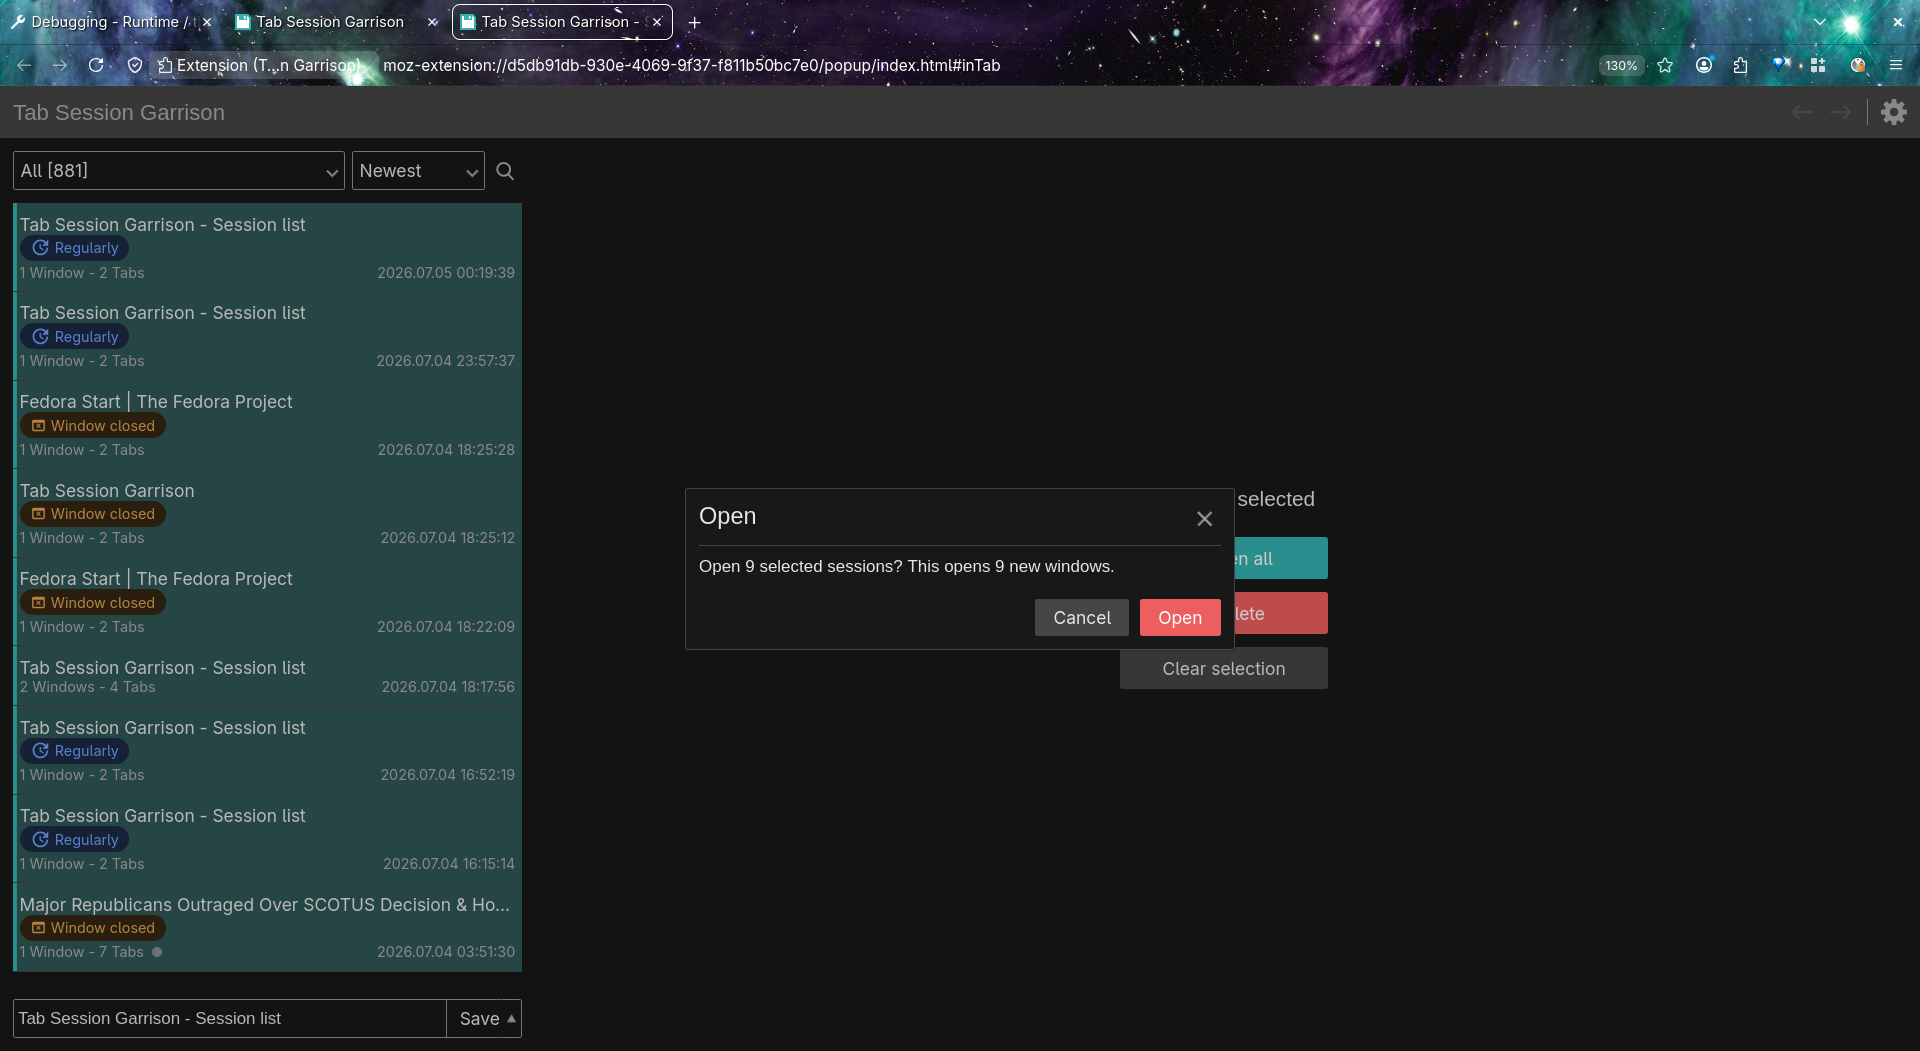
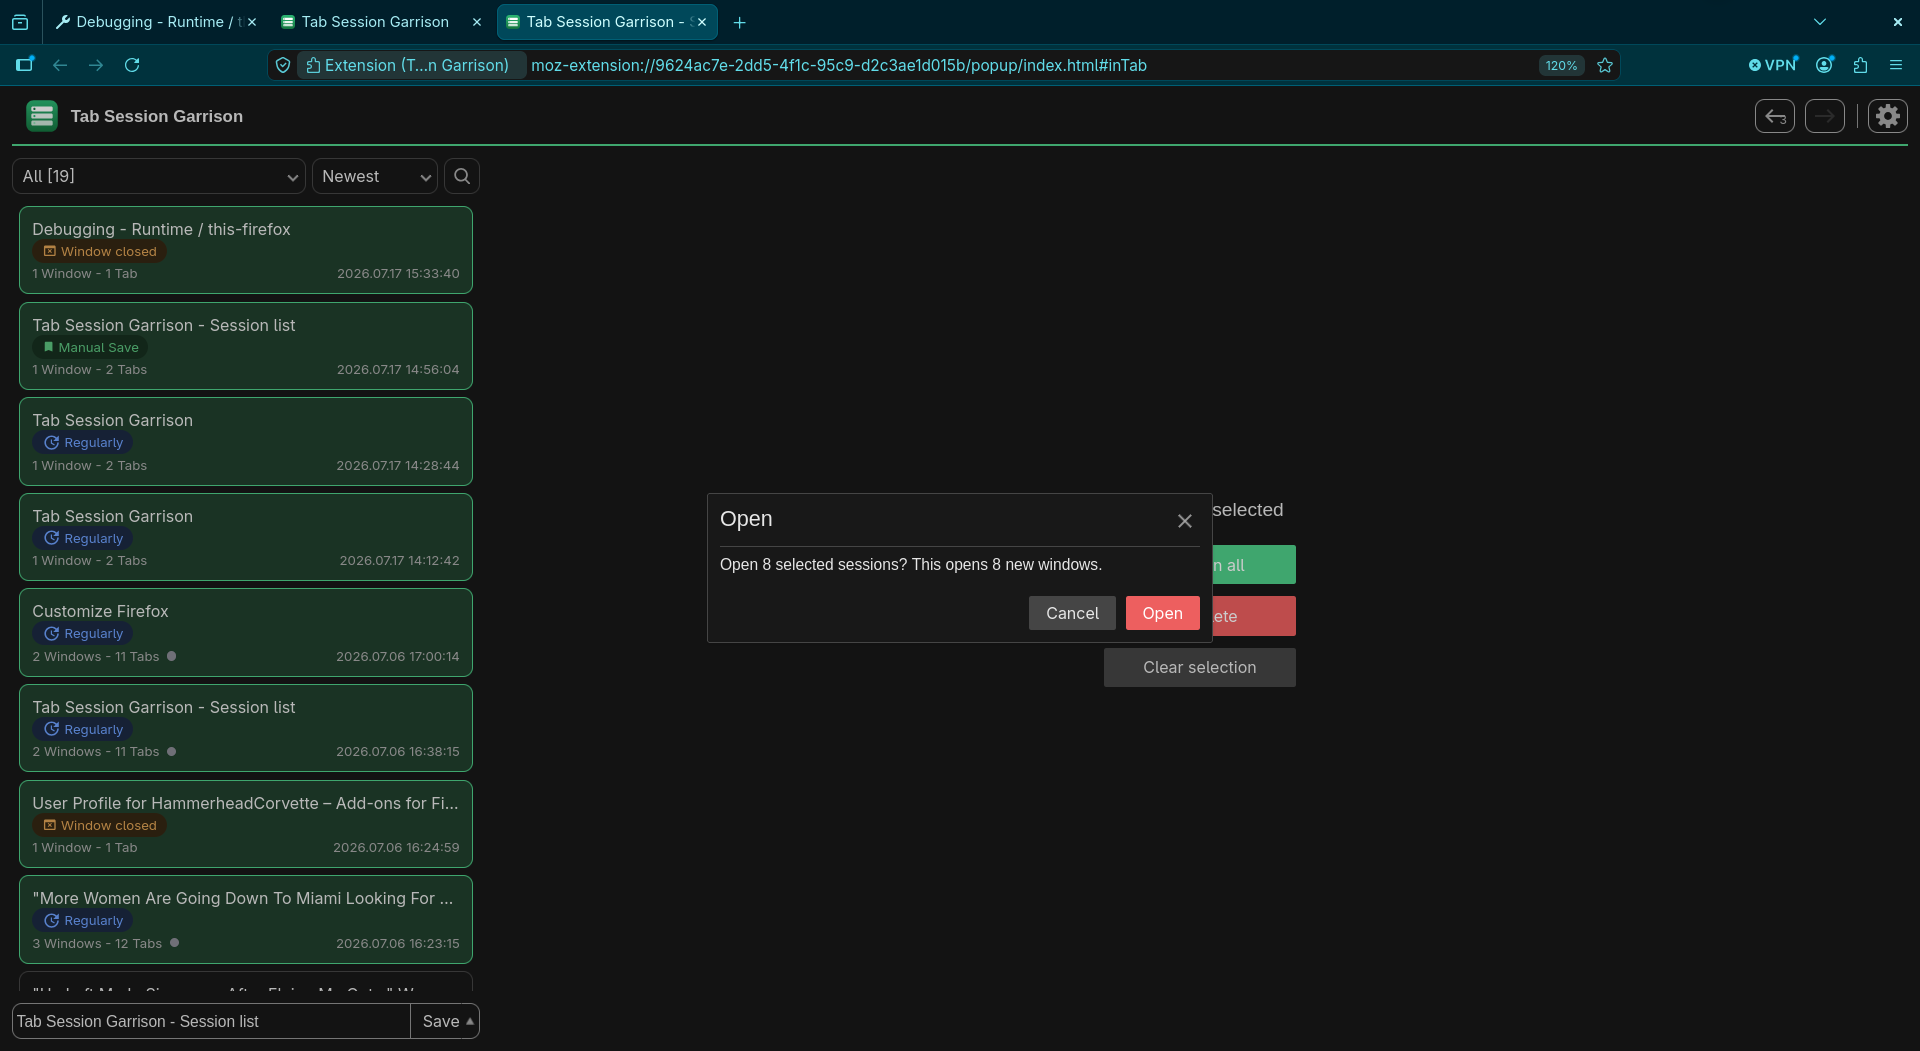
release 0.2.0: green UI redesign, dark-by-default, cloud section removed
- Popup: bordered 'card' treatment across all regions (session list, detail
  pane, top controls, save bar) + a branded header (logo, accent line, boxed
  buttons); fixed the card content-clipping
- Options: scroll-focus card treatment for Settings, pill buttons, boxed
  Sessions/Shortcuts/Information, Import/Export heading
- Unified the whole app accent from teal to the logo green
- Dark theme is now the default
- Removed the (non-functional, credential-less) cloud-sync settings section;
  background OAuth scaffolding kept dormant
- Bump to 0.2.0, updates.json entry, README refreshed

diff --git a/src/popup/styles/Header.scss b/src/popup/styles/Header.scss
@@ -1,6 +1,8 @@
 #header {
+  position: relative;
   padding: 10px;
-  background-color: var(--line);
+  // Flat, clean header on the main background.
+  background-color: var(--main-bg);
   display: flex;
   flex-direction: row;
   flex-shrink: 0;
@@ -9,12 +11,34 @@
   -moz-user-select: none;
   -webkit-user-select: none;
 
+  // Thin green accent line, inset ~10px from each edge.
+  &::after {
+    content: "";
+    position: absolute;
+    left: 10px;
+    right: 10px;
+    bottom: 0;
+    height: 2px;
+    background-color: var(--tsg-accent);
+  }
+
   .title {
-    font-size: 17px;
-    font-weight: 400;
-    color: var(--sub-text);
+    display: flex;
+    align-items: center;
+    gap: 9px;
+    margin-left: 10px;
+    // Brand-forward: bigger logo, smaller neutral text.
+    font-size: 14px;
+    font-weight: 600;
+    color: var(--main-text);
     cursor: default;
     flex-shrink: 0;
+
+    .titleLogo {
+      width: 30px;
+      height: 30px;
+      flex-shrink: 0;
+    }
   }
 
   .rightButtons {
@@ -28,11 +52,19 @@
       display: flex;
       align-items: center;
       background-color: transparent;
-      border: none;
+      // Boxed to match the popup's card/box language. Uses --sub-text so the
+      // outline stays visible on the flat header (esp. the faded undo/redo).
+      border: 1px solid var(--sub-text);
+      border-radius: 8px;
       cursor: pointer;
       outline: none;
-      padding: 0;
-      margin-left: 10px;
+      padding: 3px 6px;
+      margin-left: 8px;
+      transition: border-color 100ms;
+      &:hover,
+      &:focus {
+        border-color: var(--highlight);
+      }
     }
 
     .separation {

diff --git a/src/settings/defaultSettings.js b/src/settings/defaultSettings.js
@@ -1,6 +1,5 @@
 import browser from "webextension-polyfill";
 import browserInfo from "browser-info";
-import SignInButton from "../options/components/SignInButton";
 import CompressAllSessionsForm from "../options/components/CompressAllSessionsForm";
 import { isEnabledTabGroups, handleSaveTabGroupsChange } from "../common/tabGroups";
 
@@ -304,34 +303,6 @@ export default [
     ]
   },
   {
-    category: "cloudSyncLabel",
-    elements: [
-      {
-        id: "enabledCloudSync",
-        title: "enabledCloudSyncLabel",
-        captions: ["enabledCloudSyncCaptionLabel"],
-        type: "extra",
-        extraForm: SignInButton,
-        childElements: [
-          {
-            id: "enabledAutoSync",
-            title: "enabledAutoSyncLabel",
-            captions: ["enabledAutoSyncCaptionLabel"],
-            type: "checkbox",
-            default: false
-          },
-          {
-            id: "includesAutoSaveToSync",
-            title: "includesAutoSaveToSyncLabel",
-            captions: ["includesAutoSaveToSyncCaptionLabel"],
-            type: "checkbox",
-            default: true
-          }
-        ]
-      }
-    ]
-  },
-  {
     category: "popupLabel",
     elements: [
       {
@@ -404,7 +375,7 @@ export default [
         title: "themeLabel",
         captions: ["themeCaptionLabel"],
         type: "select",
-        default: "light",
+        default: "dark",
         options: [
           {
             name: "lightLabel",

diff --git a/src/popup/styles/OptionsArea.scss b/src/popup/styles/OptionsArea.scss
@@ -19,9 +19,10 @@
         background-color: var(--main-bg);
         color: var(--main-text);
         text-overflow: ellipsis;
-        border: var(--button) solid 1px;
-        border-radius: 2px;
-        padding: 3px 20px 3px 5px;
+        // Region 3: match the list-card box language (thin border, 8px radius).
+        border: var(--line) solid 1px;
+        border-radius: 8px;
+        padding: 3px 20px 3px 8px;
         width: 100%;
         height: 30px;
         outline: none;
@@ -29,7 +30,7 @@
 
         &:hover,
         &:focus {
-          border-color: var(--highlight);
+          border-color: var(--tsg-accent);
         }
       }
 
@@ -48,8 +49,8 @@
       }
       &:hover::before,
       &:focus::before {
-        border-bottom: 2px solid var(--highlight);
-        border-right: 2px solid var(--highlight);
+        border-bottom: 2px solid var(--tsg-accent);
+        border-right: 2px solid var(--tsg-accent);
       }
     }
 
@@ -64,16 +65,27 @@
       padding: 0;
     }
     .searchButton {
-      width: 25px;
-      margin-left: 3px;
+      // Region 3: a boxed button matching the select boxes.
+      width: 30px;
+      height: 30px;
+      flex-shrink: 0;
+      margin-left: 5px;
       z-index: 1;
+      border: var(--line) solid 1px;
+      border-radius: 8px;
+      transition: border-color 100ms;
       svg {
         height: 14px;
         fill: var(--sub-text);
+        transition: fill 100ms;
+      }
+      &:hover,
+      &:focus {
+        border-color: var(--tsg-accent);
       }
       &:hover svg,
       &:focus svg {
-        fill: var(--highlight);
+        fill: var(--tsg-accent);
       }
     }
   }

diff --git a/src/popup/styles/SessionItem.scss b/src/popup/styles/SessionItem.scss
@@ -7,12 +7,17 @@
   // the ref-based scroll-to-selected all still work). `auto` remembers each
   // row's real height once rendered; the fallback covers not-yet-seen rows.
   content-visibility: auto;
-  contain-intrinsic-size: auto 52px;
+  contain-intrinsic-size: auto 76px;
+
+  // Card treatment: each session is a thin bordered box with a small gap.
+  // No `overflow: hidden` — it clipped the tag chips / second info line.
+  border: 1px solid var(--line);
+  border-radius: 8px;
+  margin: 0 6px 6px;
 
   .selectButton {
     border: none;
-    border-bottom: 1px solid var(--line);
-    padding: 8px 5px;
+    padding: 10px 10px;
     width: 100%;
     text-align: left;
     background-color: rgba(0, 0, 0, 0);
@@ -169,13 +174,15 @@
 
   &.isSelected,
   &.isMultiSelected {
+    border-color: var(--tsg-accent);
     background-color: var(--highlight-bg);
     .selectButton {
-      box-shadow: inset 3px 0 0 var(--highlight);
+      box-shadow: none;
     }
   }
 
   &:not(.isSelected):not(.isMultiSelected):hover {
+    border-color: var(--button);
     background-color: var(--line);
     .tag:not(.tagRegular):not(.tagWinClose):not(.tagBrowserExit):not(.tagManual) {
       background-color: var(--line2);

diff --git a/src/options/styles/OptionsPage.scss b/src/options/styles/OptionsPage.scss
@@ -1,10 +1,3 @@
-// Gentle scroll detents for the Settings scroll-spy (targets are the sections;
-// other pages have no snap targets, so their scrolling is unaffected).
-html {
-  scroll-snap-type: y proximity;
-  scroll-padding-top: 150px;
-}
-
 body {
   background-color: var(--main-bg);
 
@@ -12,7 +5,7 @@ body {
   --sub-text: #737373;
   --line: #ededf0;
   --button: #d7d7db;
-  --highlight: #36b2b2;
+  --highlight: #1f9d5f;
   --main-bg: #ffffff;
   --sub-bg: #ffffff;
   --new: #ff4f4f;
@@ -23,7 +16,7 @@ body {
     --sub-text: #aaaaaa;
     --line: #454545;
     --button: #929292;
-    --highlight: #36b2b2;
+    --highlight: #4fd08a;
     --main-bg: #181818;
     --sub-bg: #101010;
     --new: #ed5f5f;

diff --git a/src/popup/styles/InputForm.scss b/src/popup/styles/InputForm.scss
@@ -17,13 +17,13 @@ $transition: 150ms ease;
     min-width: 10px;
     height: calc(100% - 4px);
     border: var(--button) solid 1px;
-    border-radius: 2px 0px 0px 2px;
+    border-radius: 8px 0px 0px 8px;
     margin-right: -1px;
     outline: none;
     transition: border-color $transition;
   }
   input:focus {
-    border-color: var(--highlight);
+    border-color: var(--tsg-accent);
     z-index: 1;
   }
 
@@ -35,7 +35,7 @@ $transition: 150ms ease;
     background-color: var(--main-bg);
     color: var(--main-text);
     border: var(--button) solid 1px;
-    border-radius: 0px 2px 2px 0px;
+    border-radius: 0px 8px 8px 0px;
     height: 100%;
     width: 20px;
     max-width: inherit;
@@ -50,9 +50,9 @@ $transition: 150ms ease;
 
     &:hover,
     &:focus {
-      border-color: var(--highlight);
+      border-color: var(--tsg-accent);
       svg {
-        fill: var(--highlight);
+        fill: var(--tsg-accent);
       }
     }
   }

diff --git a/src/popup/styles/body.scss b/src/popup/styles/body.scss
@@ -33,9 +33,10 @@ html {
     --line: #ededf0;
     --line2: #dfdfdf;
     --button: #d7d7db;
-    --highlight: #36b2b2;
+    --highlight: #1f9d5f;
     --main-bg: #ffffff;
-    --highlight-bg: #90dede;
+    --highlight-bg: #d3efde;
+    --tsg-accent: #1f9d5f;
     --confirm: #ff4f4f;
     --error: #d70022;
     --warn: #ff8f00;
@@ -58,9 +59,10 @@ html {
       --line: #454545;
       --line2: #555;
       --button: #929292;
-      --highlight: #36b2b2;
+      --highlight: #4fd08a;
       --main-bg: #181818;
-      --highlight-bg: #305656;
+      --highlight-bg: #21402d;
+      --tsg-accent: #4fd08a;
       --confirm: #ed5f5f;
       --error: #ca1532;
       --warn: #ee8e12;

diff --git a/src/popup/styles/SaveArea.scss b/src/popup/styles/SaveArea.scss
@@ -13,9 +13,9 @@
       border-right: var(--main-bg) solid 1px;
       &:hover,
       &:focus {
-        border: var(--highlight) solid 1px;
+        border: var(--tsg-accent) solid 1px;
         & + .saveOptionButton {
-          border: var(--highlight) solid 1px;
+          border: var(--tsg-accent) solid 1px;
           border-left: var(--main-bg) solid 0px;
         }
       }
@@ -23,10 +23,11 @@
     .saveOptionButton {
       padding: 0px;
       width: 16px;
+      border-radius: 0px 8px 8px 0px;
       border-left: var(--main-bg) solid 1px;
       &:hover,
       &:focus {
-        border: var(--highlight) solid 1px;
+        border: var(--tsg-accent) solid 1px;
       }
       svg {
         width: 10px;

diff --git a/src/options/styles/CategoryContainer.scss b/src/options/styles/CategoryContainer.scss
@@ -26,12 +26,6 @@
   opacity: 0.32;
 }
 
-// Scroll "gear-wheel" detents: sections settle onto the focus line instead of
-// sliding continuously past it, so a section (e.g. "Other") isn't skipped.
-.settingsList .categoryContainer {
-  scroll-snap-align: start;
-}
-
 // Shortcuts: give the reset button 20px more breathing room from the right edge.
 .shortcutsList .categoryContainer {
   padding-right: 40px;

diff --git a/src/popup/styles/PopupPage.scss b/src/popup/styles/PopupPage.scss
@@ -28,6 +28,12 @@ html {
       flex-grow: 0;
       flex-shrink: 0;
     }
+    // Region 2: inset the detail column so its box sits off the popup edges,
+    // mirroring the sidebar's margins (5px gap to the list, 10px elsewhere).
+    .column:not(.sidebar) {
+      box-sizing: border-box;
+      padding: 10px 10px 10px 5px;
+    }
   }
 
   ::-moz-selection {

diff --git a/src/popup/styles/SessionDetailsArea.scss b/src/popup/styles/SessionDetailsArea.scss
@@ -7,9 +7,15 @@
   -moz-user-select: none;
   -webkit-user-select: none;
 
+  // Region 2: the whole detail pane lives in one bordered box.
+  border: 1px solid var(--line);
+  border-radius: 10px;
+
   .sessionHeader {
     border-bottom: 1px solid var(--line);
     padding-bottom: 5px;
+    // Keep the date / Open-Delete / menu button off the new box's right border.
+    padding-right: 8px;
     .lineContainer {
       display: flex;
       justify-content: space-between;

diff --git a/src/options/styles/OptionContainer.scss b/src/options/styles/OptionContainer.scss
@@ -278,12 +278,13 @@ input[type="button"],
 .button {
   min-width: 100px;
   text-align: center;
-  padding: 5px;
+  padding: 5px 16px;
   height: 30px;
   font-size: 13px;
   color: var(--main-text);
   border: 1px solid var(--button);
-  border-radius: 2px;
+  // Pill-shaped buttons.
+  border-radius: 999px;
   background-color: var(--line);
   cursor: pointer;
   white-space: nowrap;